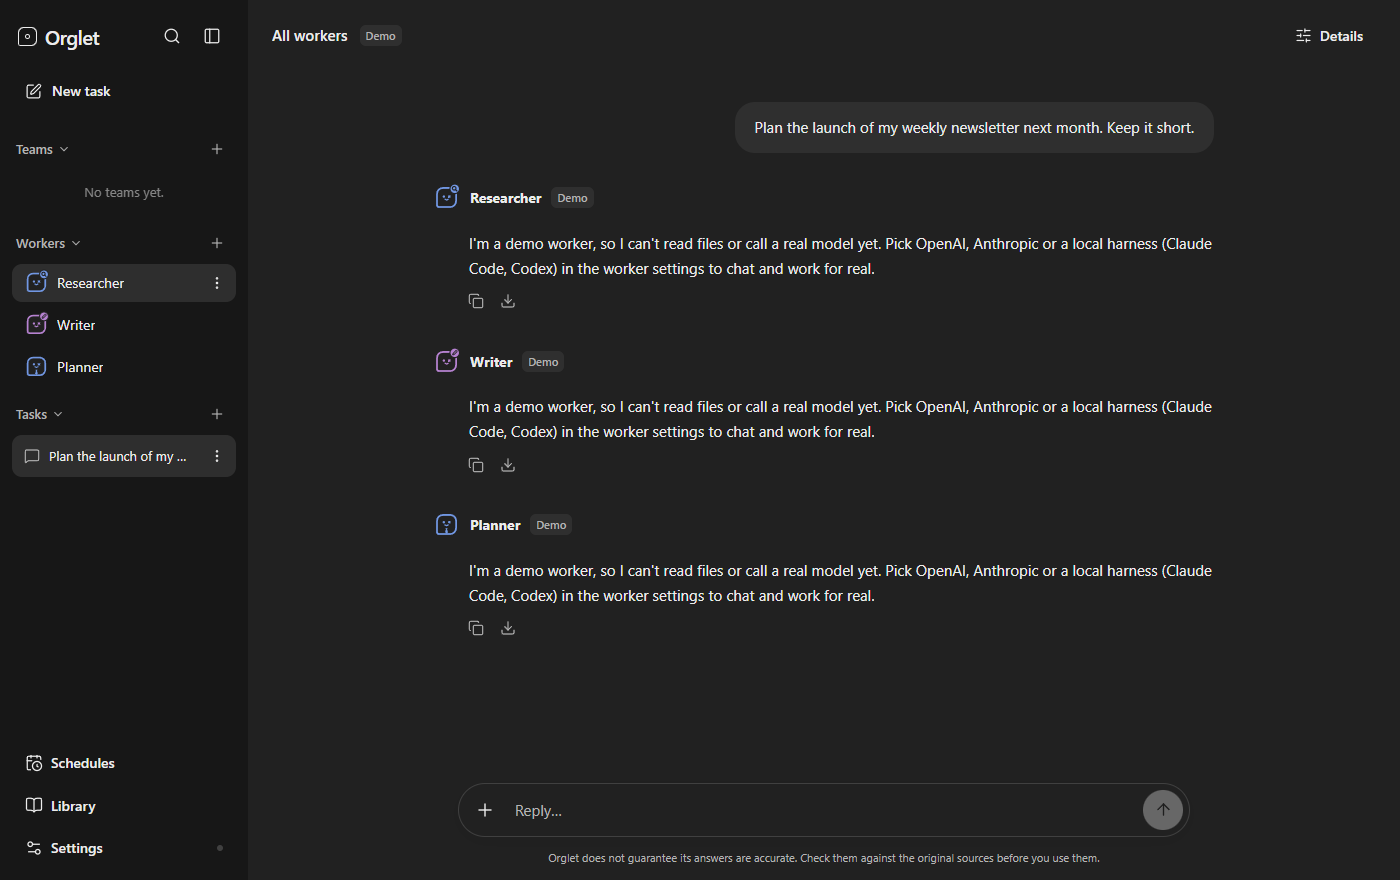
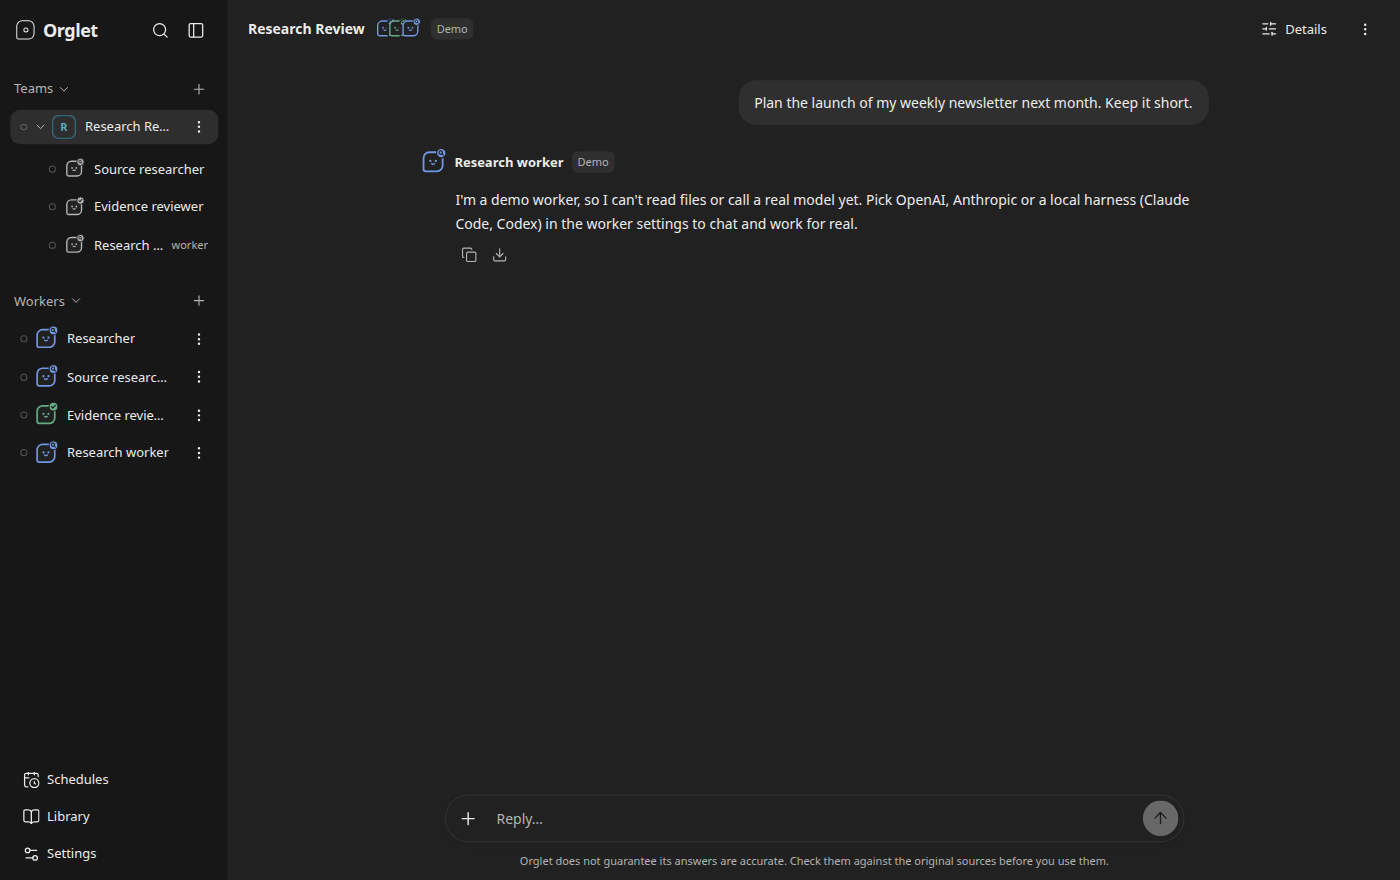
COD-38: Refresh docs and screenshots for the current app
Replace stale README shots (old New task / Tasks pile) with hide-tasks
UX, a team Demo report, and the @mention picker. Getting Started covers
those in plain language, plus the system UI font. Capture script follows
the live worker/team chat instead of creating a task pile.

diff --git a/docs/getting-started.md b/docs/getting-started.md
@@ -32,13 +32,17 @@ The Researcher worker starts on **Demo**, so you can try the app without any acc
 
 ## 2. First look
 
-On first launch the window is US English. A **Researcher** worker is already there, on **Demo**.
+On first launch the window is US English. A **Researcher** worker is already there, on **Demo**. The app uses your system's usual interface font.
 
-- The **sidebar** lists **Workers** and **Teams**. Click a name to open that chat.
-- The **main column** is the conversation. The message box sits at the bottom.
+- The **sidebar** lists **Teams** and **Workers** only. There is no task list. Click a name to open that chat.
+- The **main column** is the conversation, headed **Chatting with …**. The message box sits at the bottom.
 - The footer has **Schedules**, **Library**, and **Settings**.
 
-To change language: **Settings** → **General** → **Language** (English (US), English (UK), or Tiếng Việt).
+<p align="center">
+  <img src="images/new-task.png" alt="Empty Researcher chat. Sidebar shows Teams and Workers, not tasks." width="720">
+</p>
+
+To change language: **Settings** → **General** → **Language** (English (US), English (UK), or Tiếng Việt). To switch light or dark: **Settings** → **General** → **Appearance**.
 
 ## 3. Send a Demo message
 
@@ -76,9 +80,19 @@ If the model list fails to load, you can still type an ID. Built-in names are su
 
 ## 5. Chat with a worker or a team
 
-Click a **worker** to talk to that one worker. Click a **team** to talk to the group. Each has **one live chat**. A new message is a turn in that chat, not a new item in the sidebar.
+Click a **worker** to talk to that one worker. Click a **team** to talk to the group. Each has **one live chat**. A new message is a turn in that chat, not a new item in the sidebar. The sidebar never fills up with old jobs.
 
 On a team, the lead plans, assigned members work as hidden jobs, and one report comes back. Open **Details** for those jobs, cost, retry, and cancel.
+
+<p align="center">
+  <img src="images/chat-light.png" alt="A team chat after a Demo turn. One report is in the thread; member jobs stay under Details." width="720">
+</p>
+
+In a **team** chat, type `@` to pick a worker, `@all`, or the team name. Tagged names highlight. Demo then asks those members. Leave it untagged, or type `@all`, to ask everyone. A 1:1 worker chat has no `@` picker.
+
+<p align="center">
+  <img src="images/mention-picker.png" alt="Typing @ in a team chat opens a list of workers, all, and the team name." width="720">
+</p>
 
 How that works: [team-chat.md](team-chat.md).
 

diff --git a/docs/product.md b/docs/product.md
@@ -43,7 +43,7 @@ All four of these matter. When two conflict, the order below breaks the tie.
 
 Projects that group several tasks are postponed until real use shows a need (shared files or shared context across tasks).
 
-**Team and worker chat (COD-24 + COD-25 + COD-26, shipped):** click a worker or a team → that conversation. One live thread each (find-or-create a `tasks` row; a user message is a turn, not a new row). The sidebar is workers and teams, not a task pile. The synthesizer plans, assigned members run as hidden jobs, one report comes back. How it works: [team-chat.md](team-chat.md). Long-chat context, memory, cost and fail-closed defaults: [team-chat-context.md](team-chat-context.md).
+**Team and worker chat (COD-24 + COD-25 + COD-26, shipped):** click a worker or a team → that conversation. One live thread each (find-or-create a `tasks` row; a user message is a turn, not a new row). The sidebar is workers and teams, not a task pile. In a team chat, type `@` to tag who should take that turn ([COD-36](https://linear.app/codepawl/issue/COD-36)). The synthesizer plans, assigned members run as hidden jobs, one report comes back. How it works: [team-chat.md](team-chat.md). Long-chat context, memory, cost and fail-closed defaults: [team-chat-context.md](team-chat-context.md).
 
 ## Release
 

diff --git a/README.md b/README.md
@@ -12,7 +12,7 @@
 
 <picture>
   <source media="(prefers-color-scheme: dark)" srcset="docs/images/chat-dark.png">
-  <img src="docs/images/chat-light.png" alt="Orglet with three workers answering the same message in one chat" width="900">
+  <img src="docs/images/chat-light.png" alt="Orglet team chat: one report back, workers and teams in the sidebar, no task list" width="900">
 </picture>
 
 </div>
@@ -41,7 +41,7 @@ Click a **team** or **worker** in the sidebar to open that chat. One live conver
 | 🌐 **Your language** | US English by default, with UK English and Vietnamese in Settings. |
 
 <p align="center">
-  <img src="docs/images/new-task.png" alt="Empty worker chat in Orglet, ready for the first message" width="720">
+  <img src="docs/images/new-task.png" alt="Empty worker chat in Orglet. The sidebar lists teams and workers, not a pile of tasks." width="720">
 </p>
 
 Workers can run through a local CLI, an API key, or Demo:

diff --git a/docs/writing.md b/docs/writing.md
@@ -30,6 +30,8 @@ Academic or specialized notes stay academic. The exception is the language, not 
 
 User guides that are not written yet stay as a row in the map. Do not add empty stub files.
 
+When the app's layout changes (sidebar, composer, font), replace the shots in `docs/images/` with `node scripts/readme-screenshots.mjs` after a local `pnpm make` (or, on Linux, a Vite compile plus unpackaged Electron). Keep the files the README and Getting started already link.
+
 ## Do not
 
 - Duplicate [AGENTS.md](../AGENTS.md) (how coding agents work in this repo) or [CONTRIBUTING.md](../CONTRIBUTING.md) (how humans open a pull request). Point at them.

diff --git a/docs/README.md b/docs/README.md
@@ -17,7 +17,7 @@ What the app does today. Use the words on screen.
 
 | Page | What it is |
 |---|---|
-| [team-chat.md](team-chat.md) | Click a worker or team → that chat; how a team turn runs |
+| [team-chat.md](team-chat.md) | Click a worker or team → that chat; `@` tags; how a team turn runs |
 | [routines.md](routines.md) | Schedules, missed runs, and catch-up (one pending, not a backlog) |
 | [recovery.md](recovery.md) | Where the database lives, upgrades, and rollback |
 | [technical-guide.md](technical-guide.md) | Run the app, connect providers and harnesses, limits, checks |
